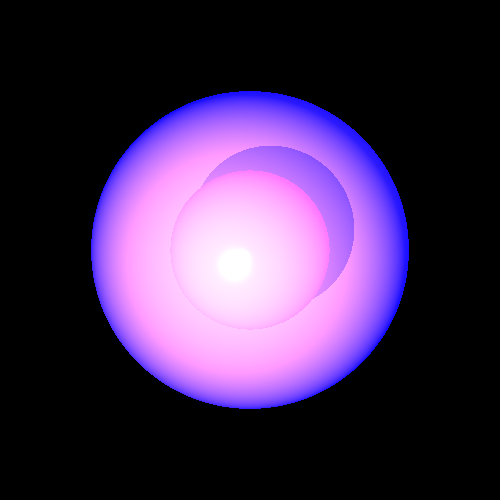
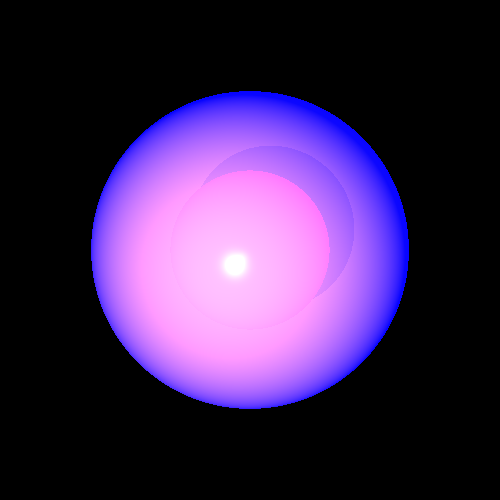
transparency

Changed region(s): [[0.21, 0.18, 0.81, 0.78]]

diff --git a/src/renderer/RayTracerBasic.java b/src/renderer/RayTracerBasic.java
@@ -48,16 +48,12 @@ public class RayTracerBasic extends RayTracerBase {
      * @return The Color of the object at the intersection point.
      */
     private Color calcColor(GeoPoint geoPoint, Ray ray) {
-         /*return scene.ambientLight.getIntensity()
-                .add(geoPoint.geometry.getEmission())
-                .add(calcLocalEffects(geoPoint, ray));*/
-
         return scene.ambientLight.getIntensity()
                 .add(calcColor(geoPoint, ray, MAX_CALC_COLOR_LEVEL, INITIAL_K));
     }
 
     private Color calcColor(GeoPoint gp, Ray ray, int level, Double3 k) {
-        Color color = calcLocalEffects(gp, ray).add(gp.geometry.getEmission());
+        Color color = calcLocalEffects(gp, ray, k).add(gp.geometry.getEmission());
         return 1 == level ? color : color.add(calcGlobalEffects(gp, ray, level, k));
     }
 
@@ -69,7 +65,7 @@ public class RayTracerBasic extends RayTracerBase {
      * @param ray      The ray associated with the calculation.
      * @return The color resulting from the local effects.
      */
-    private Color calcLocalEffects(GeoPoint geoPoint, Ray ray) {
+    private Color calcLocalEffects(GeoPoint geoPoint, Ray ray, Double3 k) {
         Color color = Color.BLACK;
         Point point = geoPoint.point;
         Vector n = geoPoint.geometry.getNormal(point);
@@ -89,11 +85,13 @@ public class RayTracerBasic extends RayTracerBase {
             double ln = alignZero(l.dotProduct(n));
             Color intensity = light.getIntensity(point);
 
+
             if (ln * nv > 0) {
-                if (unshaded(l,n, geoPoint, light)) {
+                Double3 ktr = transparency(geoPoint, light, l, n);
+                if (!ktr.product(k).lowerThan(MIN_CALC_COLOR_K)) {
                     Double3 effects = calcDiffuse(ln, Kd)
                             .add(calcSpecular(l, n, v, nSh, Ks));
-                    color = color.add(intensity.scale(effects));
+                    color = color.add(intensity.scale(effects).scale(ktr));
                 }
             }
         }
@@ -193,7 +191,35 @@ public class RayTracerBasic extends RayTracerBase {
         Vector nln2 = n.scale(ln2);
         return l.subtract(nln2).normalize();
     }
+
+    private Double3 transparency(GeoPoint gp, LightSource light, Vector l, Vector n){
+        Vector lightDirection = l.scale(-1);
+
+        Ray lightRay = new Ray(gp.point, lightDirection,n);
+
+        double distance = light.getDistance(gp.point);
+
+        List<GeoPoint> intersections = scene.geometries.findGeoIntersections(lightRay, distance);
+
+        if( intersections == null)
+            return Double3.ONE;
+
+        Double3 ktr = Double3.ONE;
+
+        for (GeoPoint geoPoint : intersections) {
+
+          ktr =  ktr.product(geoPoint.geometry.getMaterial().Kt);
+
+            if(ktr.lowerThan(MIN_CALC_COLOR_K))
+                return Double3.ZERO;
+        }
+
+        return ktr;
+    }
 }
+
+
+
 
 
 
